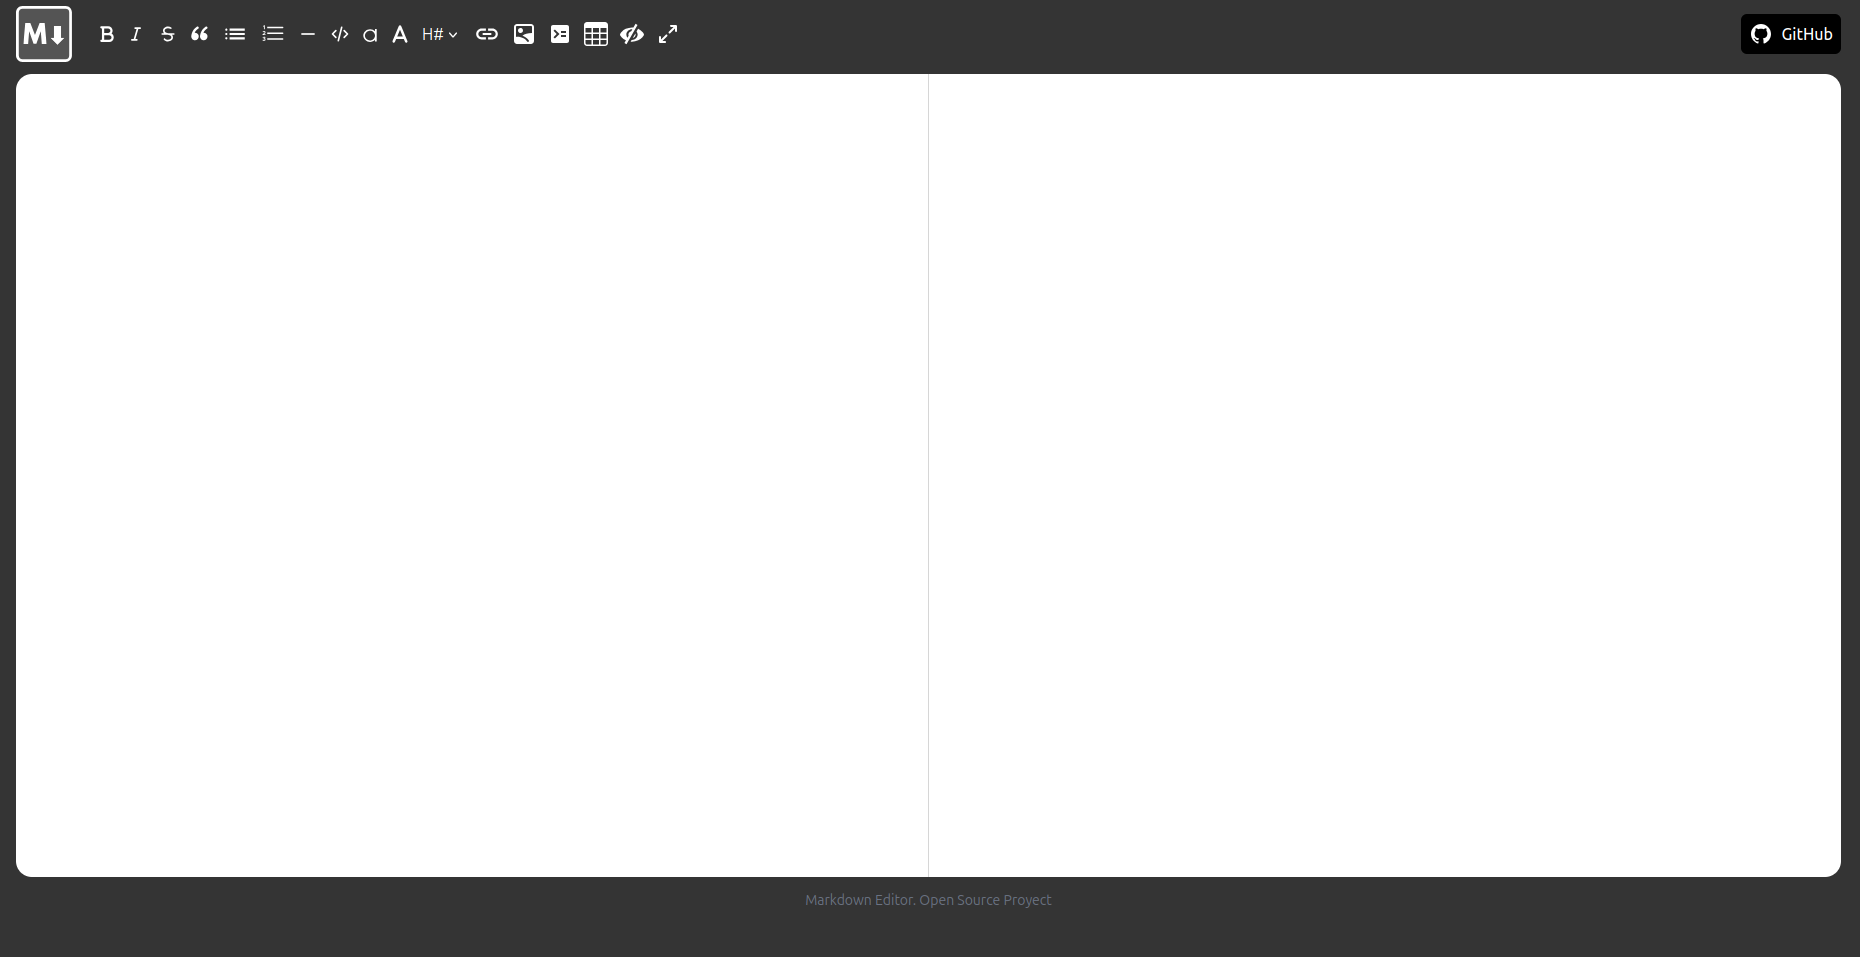
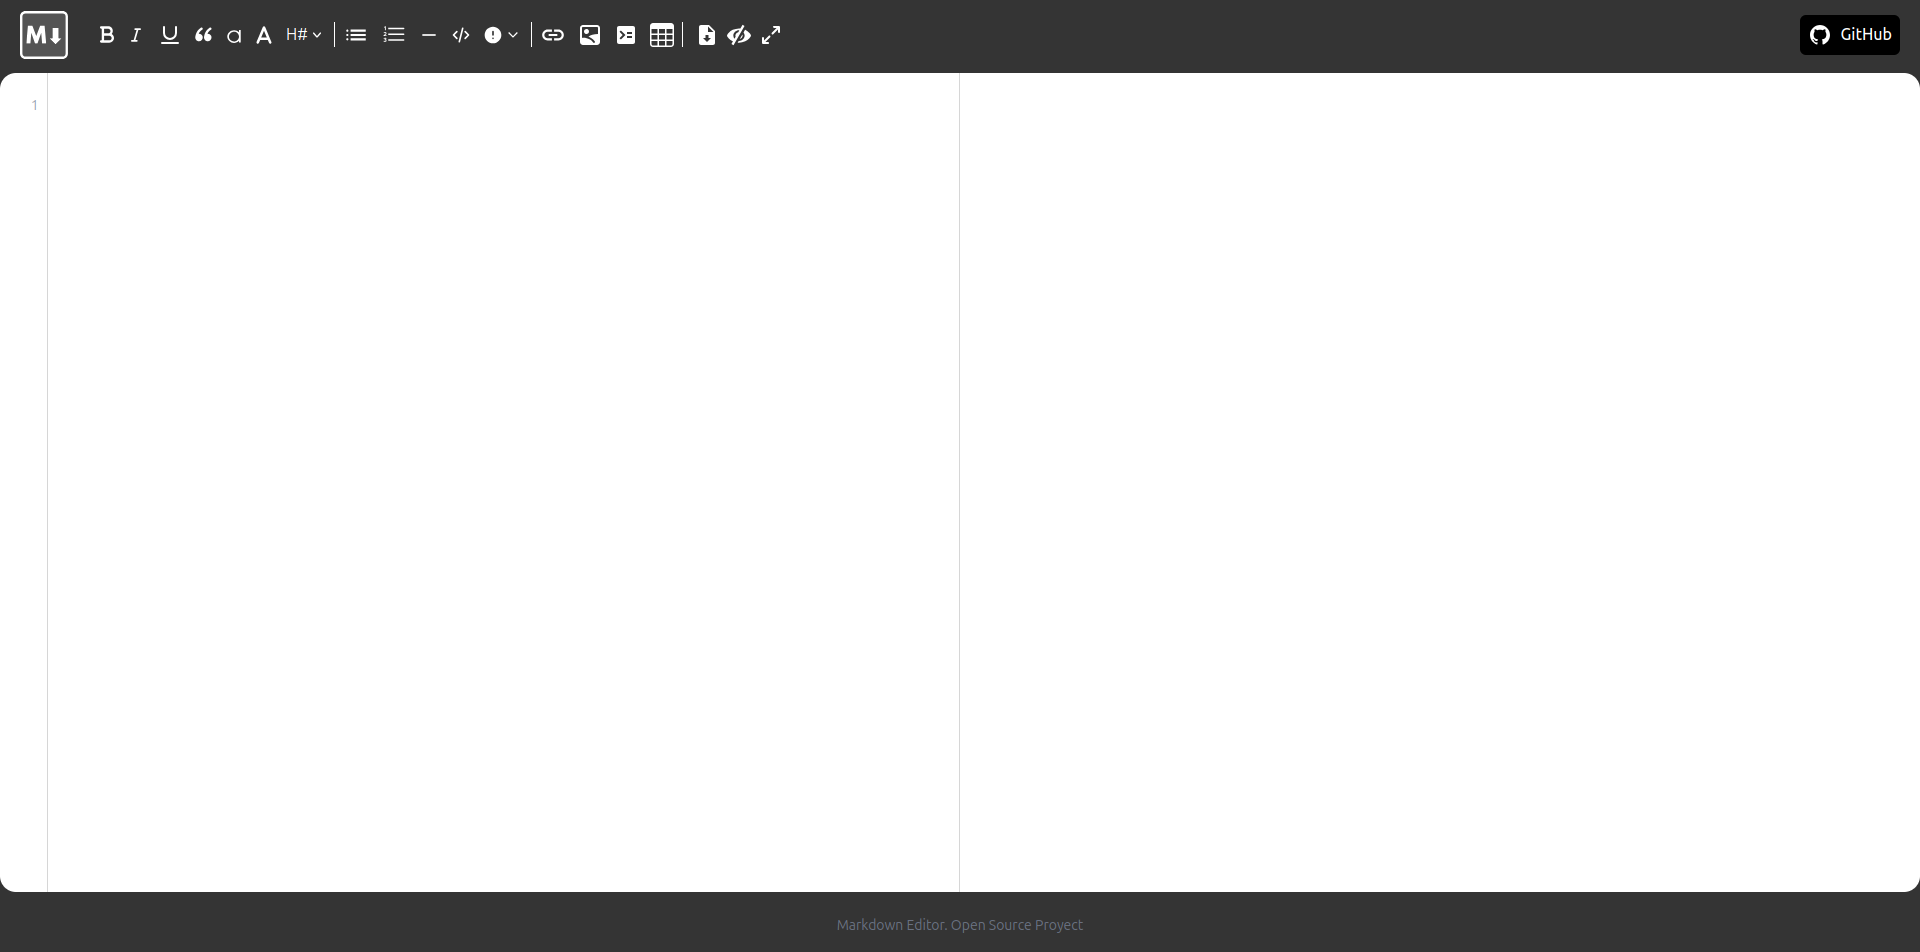
feat: documentacion

Changed region(s): [[0.0, 0.0, 1.0, 0.9748]]

diff --git a/src/app/utils/data/list-text-options.ts b/src/app/utils/data/list-text-options.ts
@@ -18,10 +18,10 @@ export const listIconsText: AsideElement[] = [
     combo: 'ctrl+alt+i',
   },
   {
-    title: 'Strikethrough',
+    title: 'Underlined',
     iconSrc: 'icons/strikethrough.svg',
-    iconAlt: 'Strikethrough Icon',
-    tag: '<s></s>',
+    iconAlt: 'Underlined Icon',
+    tag: '<u></u>',
     insert: 'between',
     combo: 'ctrl+alt+s',
   },

diff --git a/documentation/options_es.md b/documentation/options_es.md
@@ -2,13 +2,16 @@
 
 - Negritas `ctrl+alt+b`
 - Cursiva `ctrl+alt+i`
-- Tachado `ctrl+alt+s`
+- Sub-rayado `ctrl+alt+s`
+- Cita `ctrl+alt+q`
+- Transformar a minusculas `ctrl+alt+a`
+- Transformar a mayusculas `ctrl+alt+u`
+- Titulos H1 - H6 `ctrl+1/2/3/4/5/6`
 - Lista `ctrl+alt+l`
 - Lista Ordenada `ctrl+alt+n`
 - Division `ctrl+alt+r`
 - Linea de codigo (resaltado) `ctrl+alt+c`
-- Transformar a mayusculas `ctrl+alt+u`
-- Transformar a minusculas `ctrl+alt+a`
-- Titulos H1 - H6 `ctrl+1/2/3/4/5/6`
+- Lista de Alertas
+- Descargar archivo .md
 - Mostrar/Ocultar vista previa `ctrl+alt+p`
 - Agrandar/Minimizar vista previa `ctrl+alt+f`

diff --git a/documentation/options_us.md b/documentation/options_us.md
@@ -2,13 +2,16 @@
 
 - Bold `ctrl+alt+b`
 - Italic `ctrl+alt+i`
-- Strikethrough `ctrl+alt+s`
+- Underlined `ctrl+alt+s`
+- Quote `ctrl+alt+q`\
+- Lowercase `ctrl+alt+a`
+- Uppercase `ctrl+alt+u`
+- Headings H1 - H6 `ctrl+1/2/3/4/5/6`
 - List `ctrl+alt+l`
 - Lista Numeric `ctrl+alt+n`
 - Horizontal Rule `ctrl+alt+r`
 - Code inline (highlighted) `ctrl+alt+c`
-- Uppercase `ctrl+alt+u`
-- Lowercase `ctrl+alt+a`
-- Headings H1 - H6 `ctrl+1/2/3/4/5/6`
+- List of Alerts
+- Download .md file
 - Hide/Shoe preview `ctrl+alt+p`
 - Full/Min preview `ctrl+alt+f`
